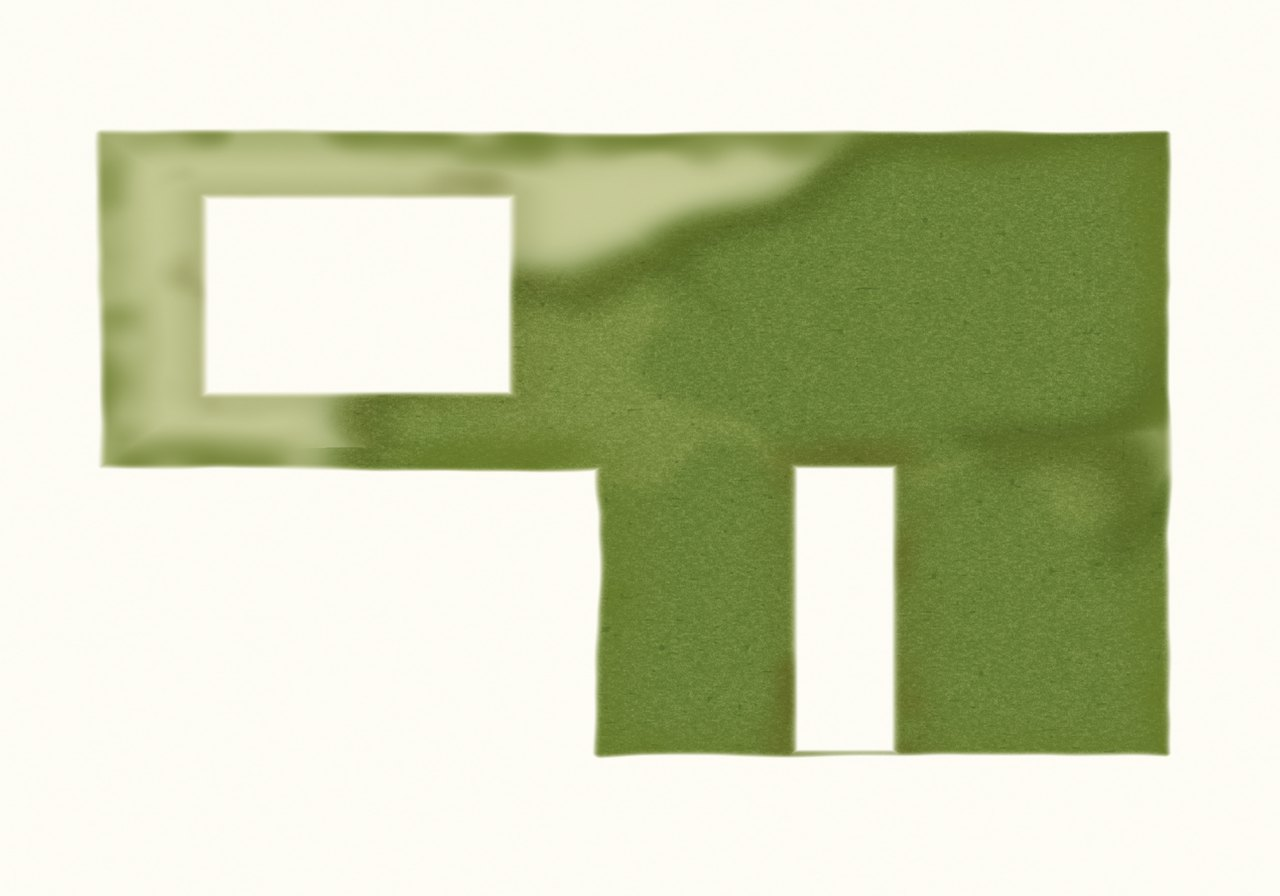
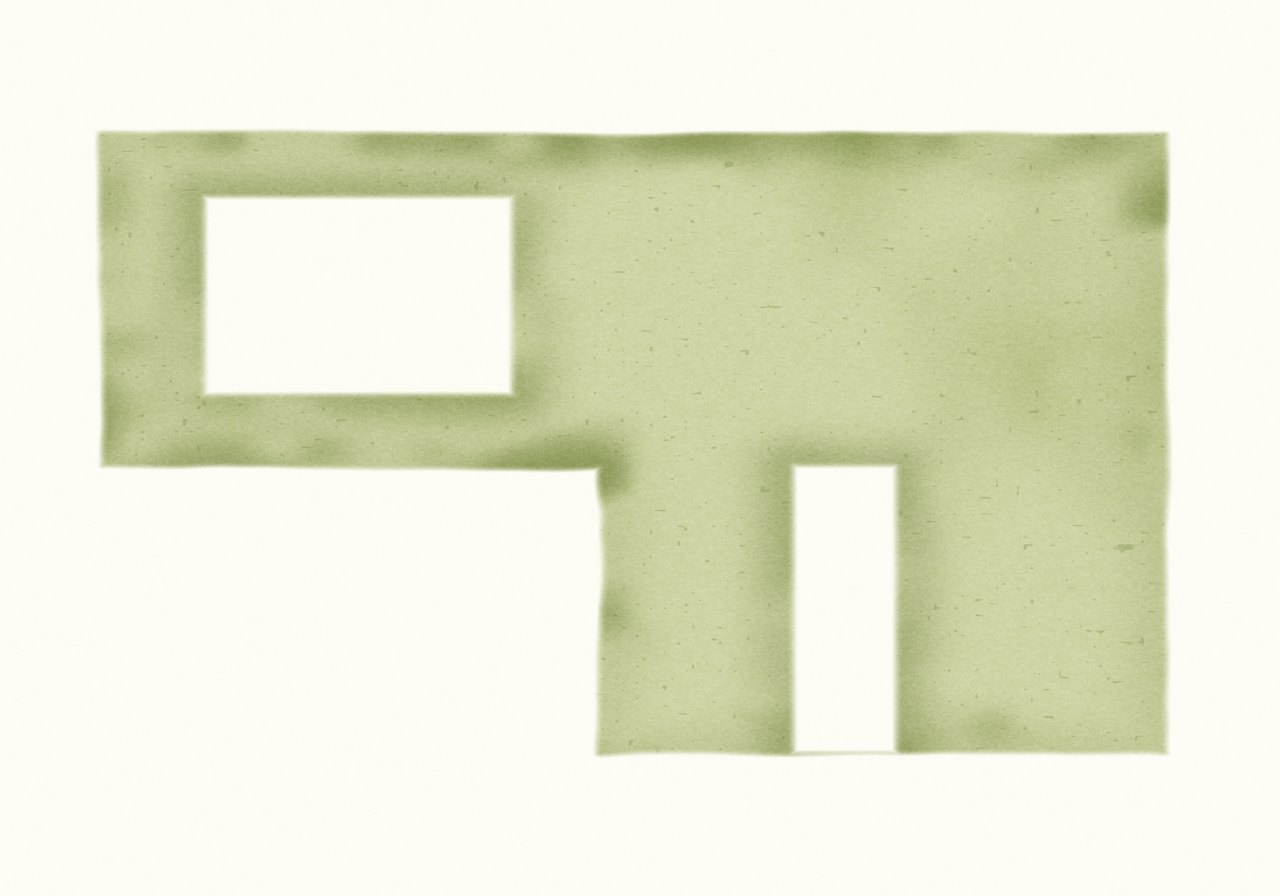
Paint grass as a pale even wash, matching the board not blobs.
The last baker looked like shrub masses. The style boards are a soft
yellow-green field with paper and slight tone variation. Drop the
ellipse islands, stain the lot lightly, keep house/path as paper.

diff --git a/docs/northstar-study/README.md b/docs/northstar-study/README.md
@@ -1,16 +1,17 @@
 # Northstar grass study (view in the browser)
 
-Stills from the Godot baker on `feat/expert-workspace-ui`. Open this file on
-GitHub — the JPEGs render inline. Nothing to download.
+The previous Godot bake was the wrong material: dark overlapping masses.
+The boards are a **pale, even lawn wash**. This folder is the correction.
 
-This is **not** the live Android canvas. The tablet still uses the Java
-rectangle bake. These frames are the presentation target: an L-lawn, house
-and path left as paper, living wash fronts inset from the clip.
+Open this file on GitHub — JPEGs render inline. Nothing to download.
+This is **not** the live Android canvas and not the full plan (planting, water,
+ink, paving). Grass only.
 
-Guess for a Galaxy Tab S10 FE (10.9" IPS LCD, 2304×1440, 249 ppi, S Pen):
-yellow-on-cream dies on LCD, so the lawn is greener and darker than the Java
-painter. 2048 matches the panel; the live 1024 cap will look soft under S Pen
-zoom. Godot should stay on GLES Compatibility (Xclipse 540).
+## Versus the board
+
+![Board grass process](board-grass-row.jpg)
+
+![Board lawn swatch vs this bake](vs-board-swatch.jpg)
 
 ## Sheet
 
@@ -18,15 +19,15 @@ zoom. Godot should stay on GLES Compatibility (Xclipse 540).
 
 ![Full sheet](lawn-full.jpg)
 
-![16:10 viewport, same aspect as the S10 FE](s10fe-viewport.jpg)
+![16:10 viewport](s10fe-viewport.jpg)
 
-## Close-ups (S Pen zoom)
+## Close-ups
 
 ![Wash interior](crop-closeup.jpg)
 
-![House / lawn junction](crop-house.jpg)
+![House / lawn](crop-house.jpg)
 
-![L inner corner — the clip money shot](crop-corner.jpg)
+![L corner](crop-corner.jpg)
 
 ## Stages
 
